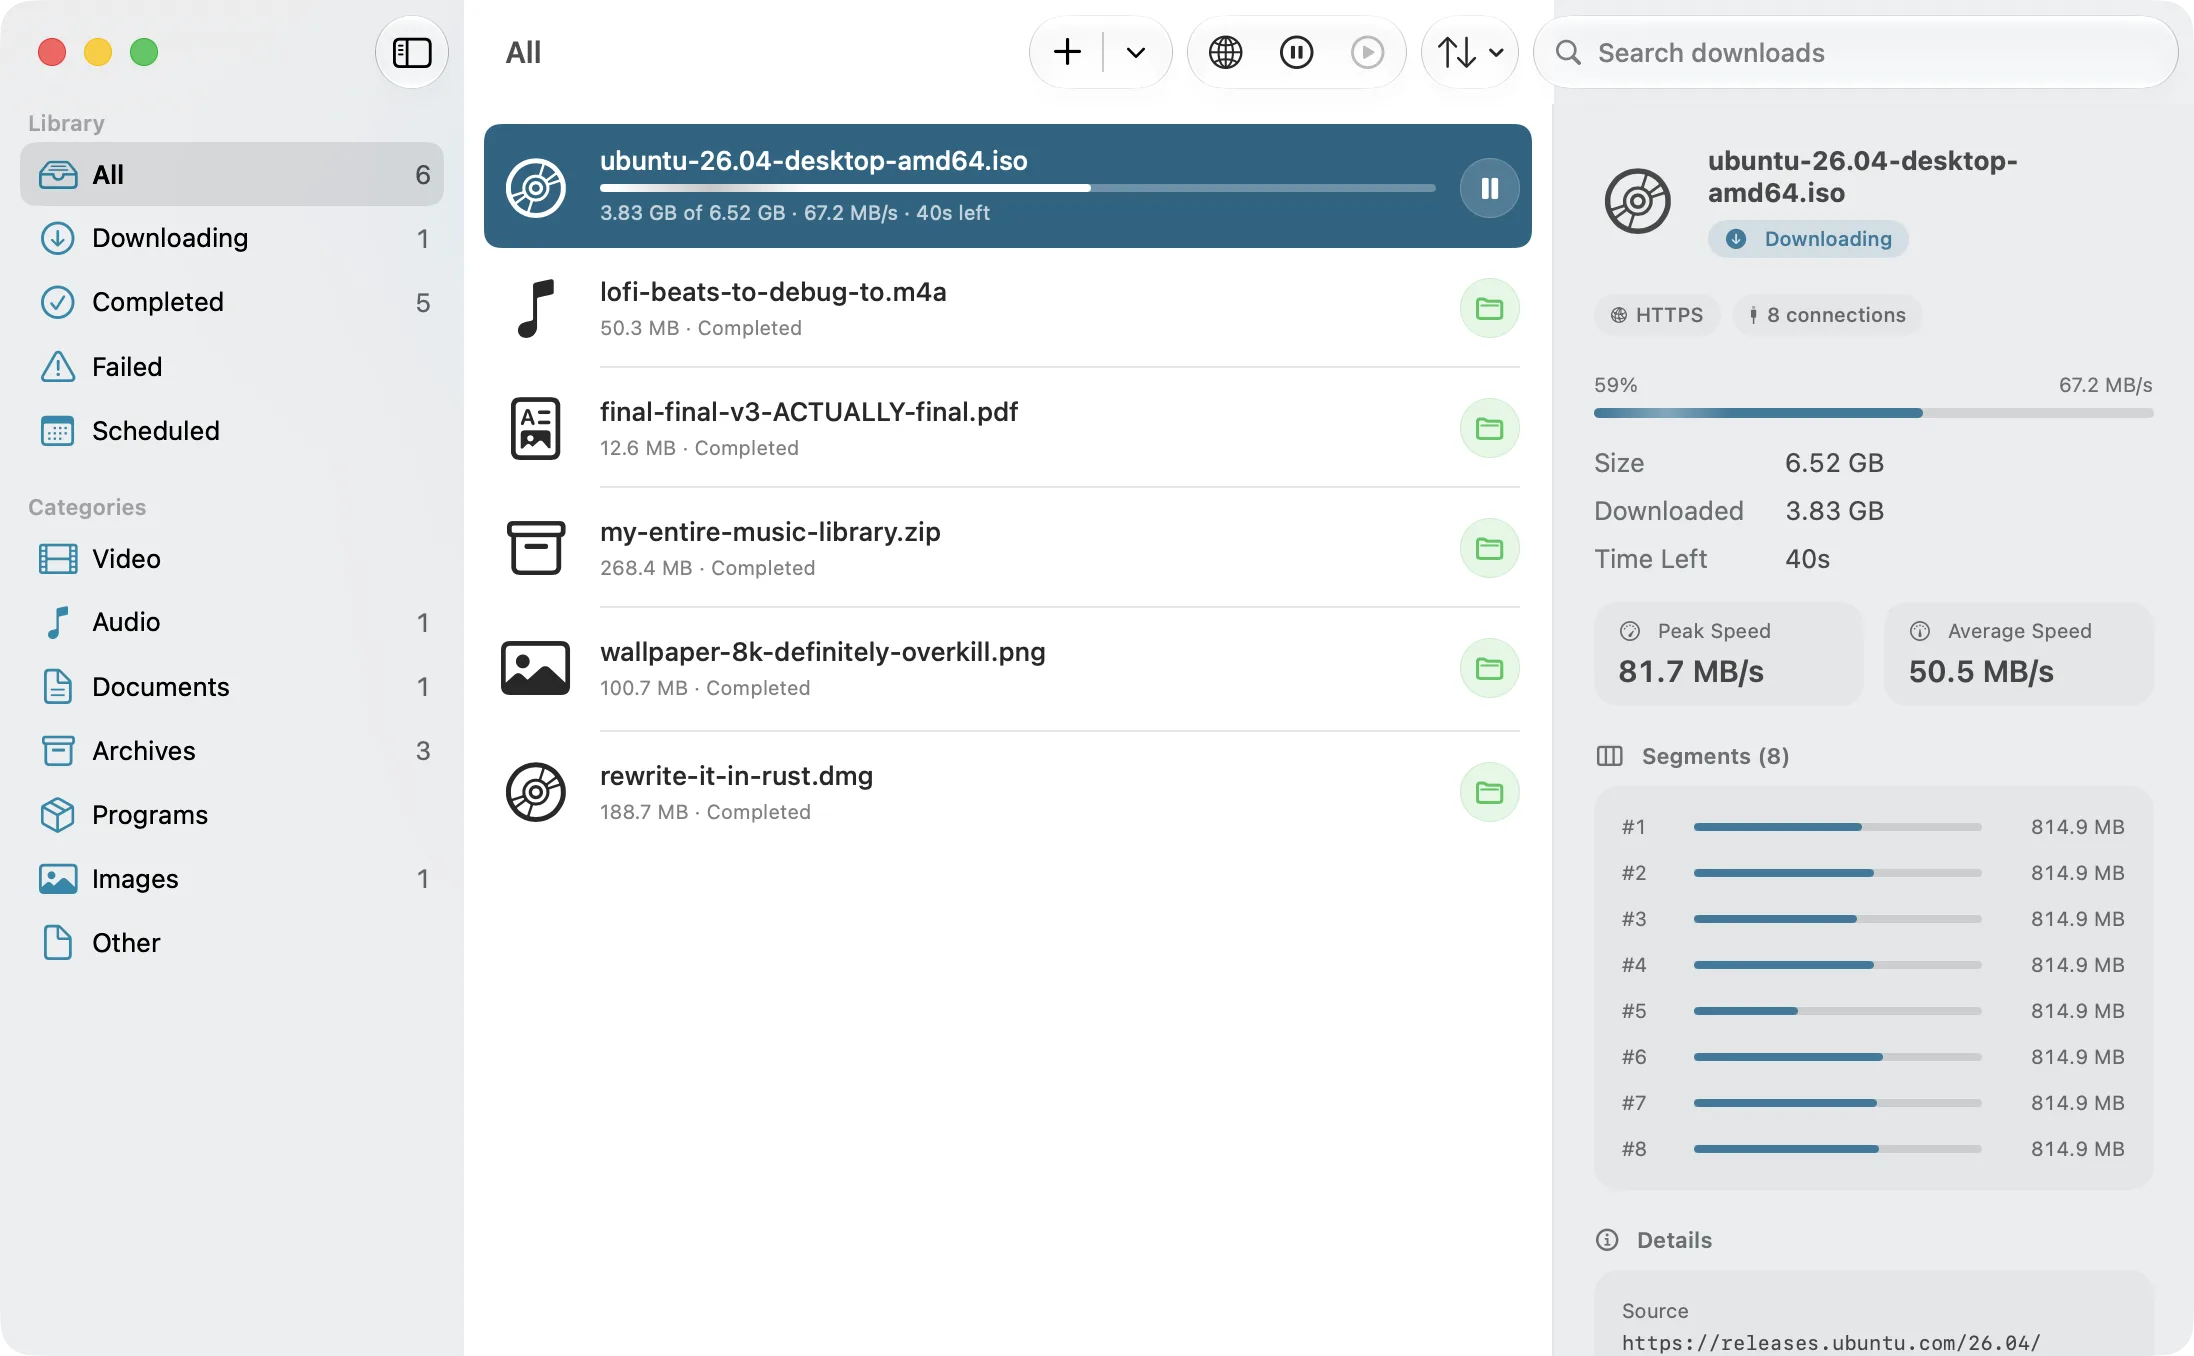
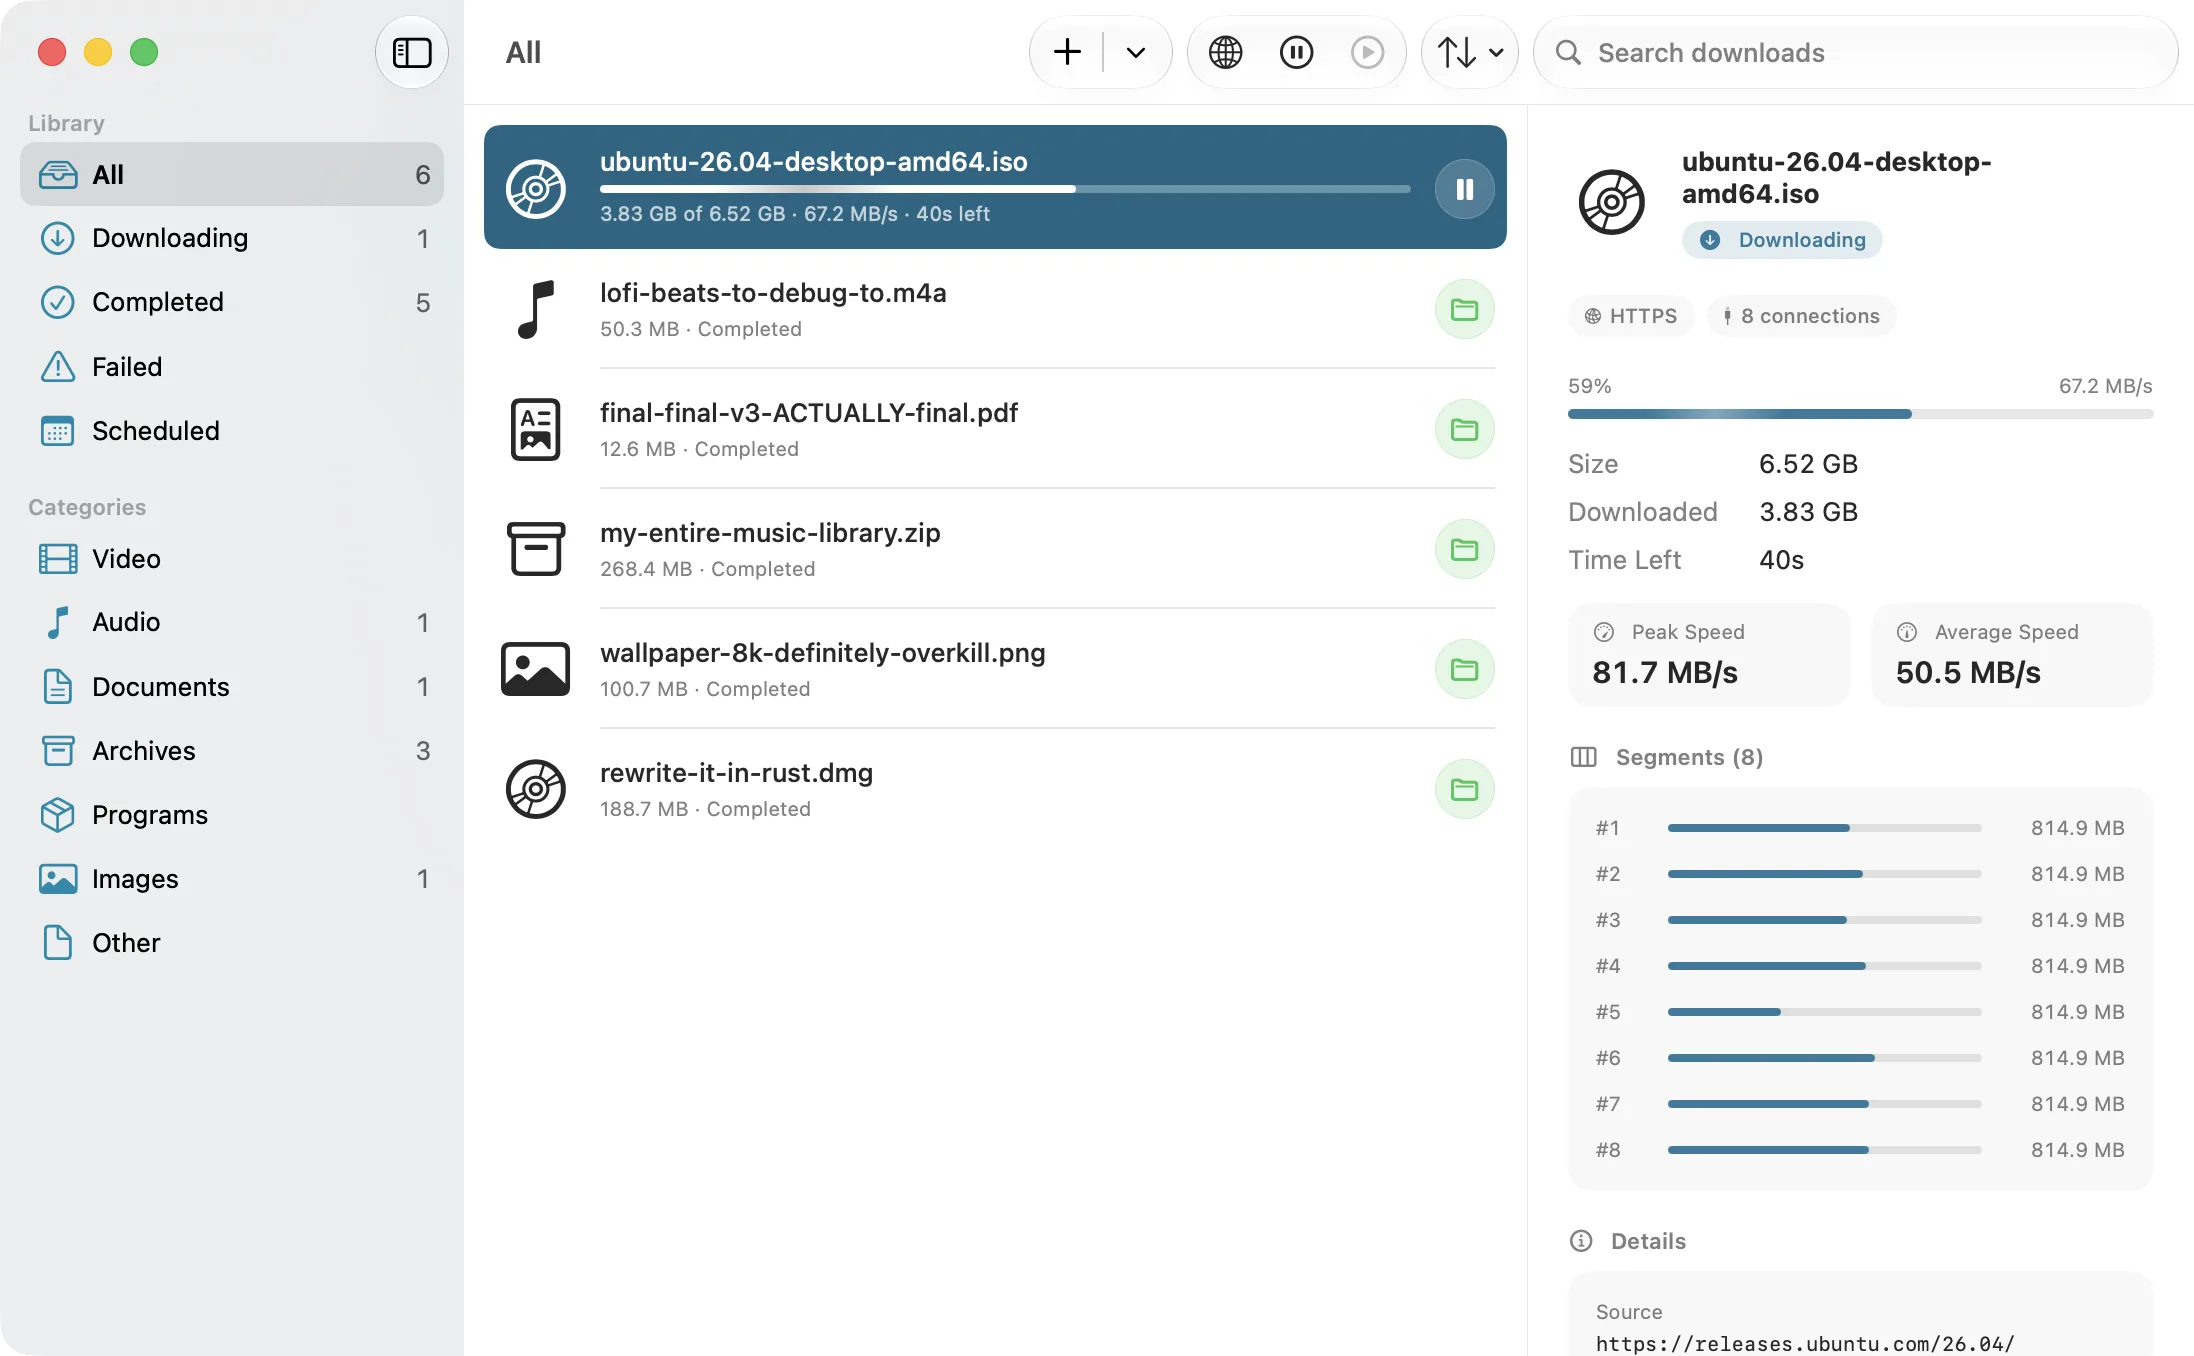
Polish inspector layout and hero capture

diff --git a/apps/macos/App/App/HeroFixture.swift b/apps/macos/App/App/HeroFixture.swift
@@ -1,0 +1,112 @@
+#if DEBUG
+import Foundation
+import DownloadModels
+
+/// Stable sample data for native product captures. Launch a Debug build with `--hero-fixture` to
+/// render this snapshot without network access, temporary files, or mutations to the real catalog.
+struct HeroFixtureState {
+    let downloads: [Download]
+    let activeDownloadID: UUID
+    let progress: DownloadProgress
+
+    static func make() -> HeroFixtureState {
+        let activeID = identifier("00000000-0000-0000-0000-000000000100")
+        let totalBytes: Int64 = 6_518_974_464
+        let segmentLength = totalBytes / 8
+        let segmentPercentages: [Int64] = [58, 62, 57, 63, 36, 66, 64, 64]
+        let segments = segmentPercentages.enumerated().map { index, percentage in
+            let start = Int64(index) * segmentLength
+            return DownloadSegment(
+                id: index,
+                start: start,
+                end: start + segmentLength - 1,
+                downloadedBytes: segmentLength * percentage / 100
+            )
+        }
+        let createdAt = Date(timeIntervalSinceReferenceDate: 800_000_000)
+        let active = Download(
+            id: activeID,
+            url: url("https://releases.ubuntu.com/26.04/ubuntu-26.04-desktop-amd64.iso"),
+            fileName: "ubuntu-26.04-desktop-amd64.iso",
+            destinationDirectoryPath: "/Users/example/Downloads",
+            totalBytes: totalBytes,
+            supportsResume: true,
+            segments: segments,
+            status: .downloading,
+            peakBytesPerSecond: 81_700_000,
+            activeSeconds: 75.84,
+            createdAt: createdAt,
+            startedAt: createdAt,
+            order: 0
+        )
+
+        let examples: [(String, Int64)] = [
+            ("lofi-beats-to-debug-to.m4a", 50_300_000),
+            ("final-final-v3-ACTUALLY-final.pdf", 12_600_000),
+            ("my-entire-music-library.zip", 268_400_000),
+            ("wallpaper-8k-definitely-overkill.png", 100_700_000),
+            ("rewrite-it-in-rust.dmg", 188_700_000)
+        ]
+        let completed = examples.enumerated().map { index, example in
+            completedDownload(
+                id: identifier(String(format: "00000000-0000-0000-0000-%012d", index + 101)),
+                fileName: example.0,
+                totalBytes: example.1,
+                createdAt: createdAt.addingTimeInterval(-Double(index + 1)),
+                order: index + 1
+            )
+        }
+        let progress = DownloadProgress(
+            id: activeID,
+            downloadedBytes: 3_830_000_000,
+            totalBytes: totalBytes,
+            bytesPerSecond: 67_200_000,
+            peakBytesPerSecond: 81_700_000,
+            averageBytesPerSecond: 50_500_000,
+            segmentBytes: Dictionary(uniqueKeysWithValues: segments.map { ($0.id, $0.downloadedBytes) })
+        )
+        return HeroFixtureState(
+            downloads: [active] + completed,
+            activeDownloadID: activeID,
+            progress: progress
+        )
+    }
+
+    private static func completedDownload(
+        id: UUID,
+        fileName: String,
+        totalBytes: Int64,
+        createdAt: Date,
+        order: Int
+    ) -> Download {
+        Download(
+            id: id,
+            url: url("https://example.invalid/\(fileName)"),
+            fileName: fileName,
+            destinationDirectoryPath: "/Users/example/Downloads",
+            totalBytes: totalBytes,
+            supportsResume: true,
+            segments: [DownloadSegment(id: 0, start: 0, end: totalBytes - 1, downloadedBytes: totalBytes)],
+            status: .completed,
+            createdAt: createdAt,
+            startedAt: createdAt,
+            completedAt: createdAt,
+            order: order
+        )
+    }
+
+    private static func identifier(_ string: String) -> UUID {
+        guard let value = UUID(uuidString: string) else {
+            preconditionFailure("Invalid hero fixture UUID: \(string)")
+        }
+        return value
+    }
+
+    private static func url(_ string: String) -> URL {
+        guard let value = URL(string: string) else {
+            preconditionFailure("Invalid hero fixture URL: \(string)")
+        }
+        return value
+    }
+}
+#endif

diff --git a/apps/macos/App/Features/RootView.swift b/apps/macos/App/Features/RootView.swift
@@ -2,9 +2,10 @@ import AppKit
 import SwiftUI
 import DownloadModels
 
-/// The main window: a sidebar + content list with a persistent detail panel. System materials
-/// supply Liquid Glass for the sidebar, toolbar, and detail chrome. The detail stays open so the
-/// layout has a single, left-side collapse affordance.
+/// The main window: a sidebar + content list with a persistent detail panel. The source-list
+/// sidebar keeps its system material while the content and detail panes share a quieter content
+/// surface, matching Notes. The detail stays open so the layout has a single, left-side collapse
+/// affordance.
 struct RootView: View {
     @Environment(AppModel.self) private var model
 
@@ -94,6 +95,7 @@ private struct PersistentInspectorSplitView: View {
     private static let idealWidth = 320.0
     private static let maximumWidth = 360.0
 
+    @Environment(\.displayScale) private var displayScale
     @AppStorage("mainInspectorWidth") private var storedWidth = Self.idealWidth
 
     private var inspectorWidth: CGFloat {
@@ -112,31 +114,43 @@ private struct PersistentInspectorSplitView: View {
 
             InspectorView()
                 .frame(width: inspectorWidth)
-                .background(.regularMaterial)
+                .background(Color(nsColor: .textBackgroundColor))
         }
         .frame(maxWidth: .infinity, maxHeight: .infinity)
+        .safeAreaInset(edge: .top, spacing: 0) {
+            Rectangle()
+                .fill(Color(nsColor: .separatorColor))
+                .frame(height: 1 / displayScale)
+        }
         .onAppear { storedWidth = Double(inspectorWidth) }
     }
 }
 
-/// A one-point separator with a forgiving invisible hit target. The drag origin is captured once
-/// per gesture so repeated updates remain stable, and every input path clamps to the same bounds.
+/// A one-pixel separator with a forgiving invisible hit target. A geometry container respects the
+/// unified title bar's safe area, so the line and resize target start below toolbar controls
+/// (notably the search field). Matching the toolbar hairline at the current display scale keeps the
+/// two boundaries visually continuous. The drag origin is captured once per gesture so repeated
+/// updates remain stable, and every input path clamps to the same bounds.
 private struct InspectorDivider: View {
+    @Environment(\.displayScale) private var displayScale
     @Binding var width: Double
     let range: ClosedRange<Double>
 
     @State private var dragOrigin: Double?
 
     var body: some View {
-        Rectangle()
-            .fill(Color(nsColor: .separatorColor))
-            .frame(width: 1)
-            .overlay {
-                ResizeCursorArea(width: $width, range: range)
-                    .frame(width: 9)
-                    .contentShape(Rectangle())
-                    .gesture(resizeGesture)
-            }
+        GeometryReader { _ in
+            Rectangle()
+                .fill(Color(nsColor: .separatorColor))
+                .frame(maxHeight: .infinity)
+                .overlay {
+                    ResizeCursorArea(width: $width, range: range)
+                        .frame(width: 9)
+                        .contentShape(Rectangle())
+                        .gesture(resizeGesture)
+                }
+        }
+        .frame(width: 1 / displayScale)
     }
 
     private var resizeGesture: some Gesture {

diff --git a/apps/macos/App/App/AppModel.swift b/apps/macos/App/App/AppModel.swift
@@ -225,6 +225,23 @@ final class AppModel {
         AppModel(manager: try AppEnvironment.makeManager())
     }
 
+    #if DEBUG
+    /// Build the deterministic catalog used by `--hero-fixture`. Keeping this behind DEBUG makes
+    /// the capture repeatable without shipping sample data or ever opening the user's database.
+    static func heroFixture() throws -> AppModel {
+        let model = AppModel(manager: try AppEnvironment.makeHeroFixtureManager())
+        let fixture = HeroFixtureState.make()
+        model.downloads = fixture.downloads
+        model.queues = [.makeDefault]
+        model.progress = [fixture.activeDownloadID: ProgressBox(fixture.progress)]
+        model.selectedDownloadIDs = [fixture.activeDownloadID]
+        // The fixture is already a complete UI snapshot. Skip the live manager bootstrap, which
+        // would replace it with an empty in-memory catalog and start ambient services.
+        model.didBootstrap = true
+        return model
+    }
+    #endif
+
     // MARK: Lifecycle
 
     func bootstrap() async {

diff --git a/apps/macos/App/App/AppEnvironment.swift b/apps/macos/App/App/AppEnvironment.swift
@@ -43,6 +43,14 @@ enum AppEnvironment {
         return DownloadManager(store: store, remuxer: makeRemuxer())
     }
 
+    #if DEBUG
+    /// A disposable manager for deterministic marketing captures. Hero fixture mode never starts
+    /// this manager, so it performs no network or disk work and cannot touch the user's catalog.
+    static func makeHeroFixtureManager() throws -> DownloadManager {
+        DownloadManager(store: try GRDBDownloadStore.inMemory())
+    }
+    #endif
+
     /// The media remuxer that assembles adaptive grabs into a clean, single file with sound.
     /// AVFoundation runs first (fast, in-process, no bundled dependency — H.264/HEVC + AAC), falling
     /// back to a bundled ffmpeg for the codecs it can't mux (VP9/AV1/Opus). Without a bundled ffmpeg

diff --git a/apps/macos/App/App/CloakDropApp.swift b/apps/macos/App/App/CloakDropApp.swift
@@ -13,7 +13,14 @@ struct CloakDropApp: App {
 
     init() {
         do {
-            _model = State(initialValue: try AppModel.live())
+            #if DEBUG
+            let appModel = ProcessInfo.processInfo.arguments.contains("--hero-fixture")
+                ? try AppModel.heroFixture()
+                : try AppModel.live()
+            #else
+            let appModel = try AppModel.live()
+            #endif
+            _model = State(initialValue: appModel)
         } catch {
             // The only failure here is being unable to open the local database; there's no
             // safe way to continue without persistence, so fail fast with a clear message.

diff --git a/assets/README.md b/assets/README.md
@@ -66,6 +66,20 @@ That's it — every consumer picks it up. Renditions (extra sizes, WebP) are pro
 a human and committed here; the sync step only distributes them, it never resizes or
 re-encodes.
 
+### Reproducible hero capture
+
+Debug builds include a deterministic, read-only hero catalog. It renders the Ubuntu transfer and
+the five completed reference rows without opening the user's database, creating partial files, or
+making a network request:
+
+```bash
+open -n apps/macos/build/Verify/Build/Products/Debug/CloakDrop.app --args --hero-fixture
+```
+
+The fixture is compiled only when `DEBUG` is set. Capture the main window at 1097 × 678 points
+(2194 × 1356 Retina pixels), then produce the padded README rendition on a 2338 × 1500 transparent
+canvas. Keep the four files in `assets/screenshots/` synchronized before running the asset sync.
+
 ## The social card
 
 `social/og.png` is **rendered, not drawn** — edit [`social/og.html`](social/og.html) and run:
